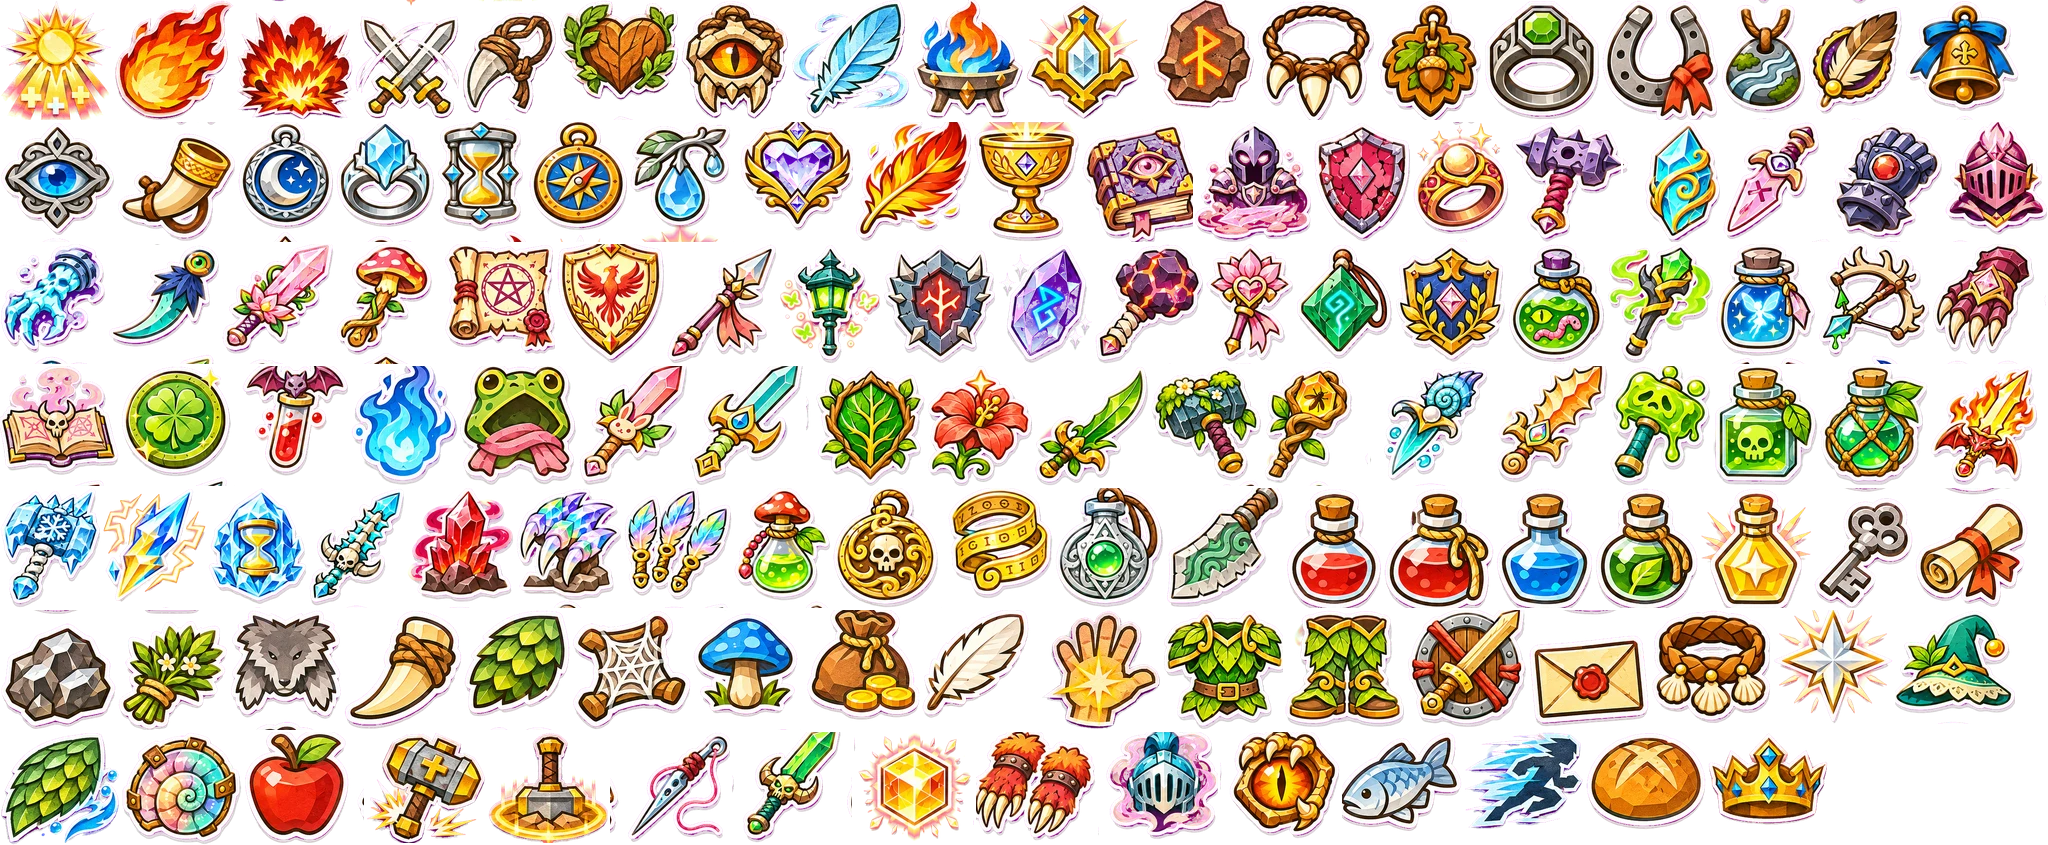
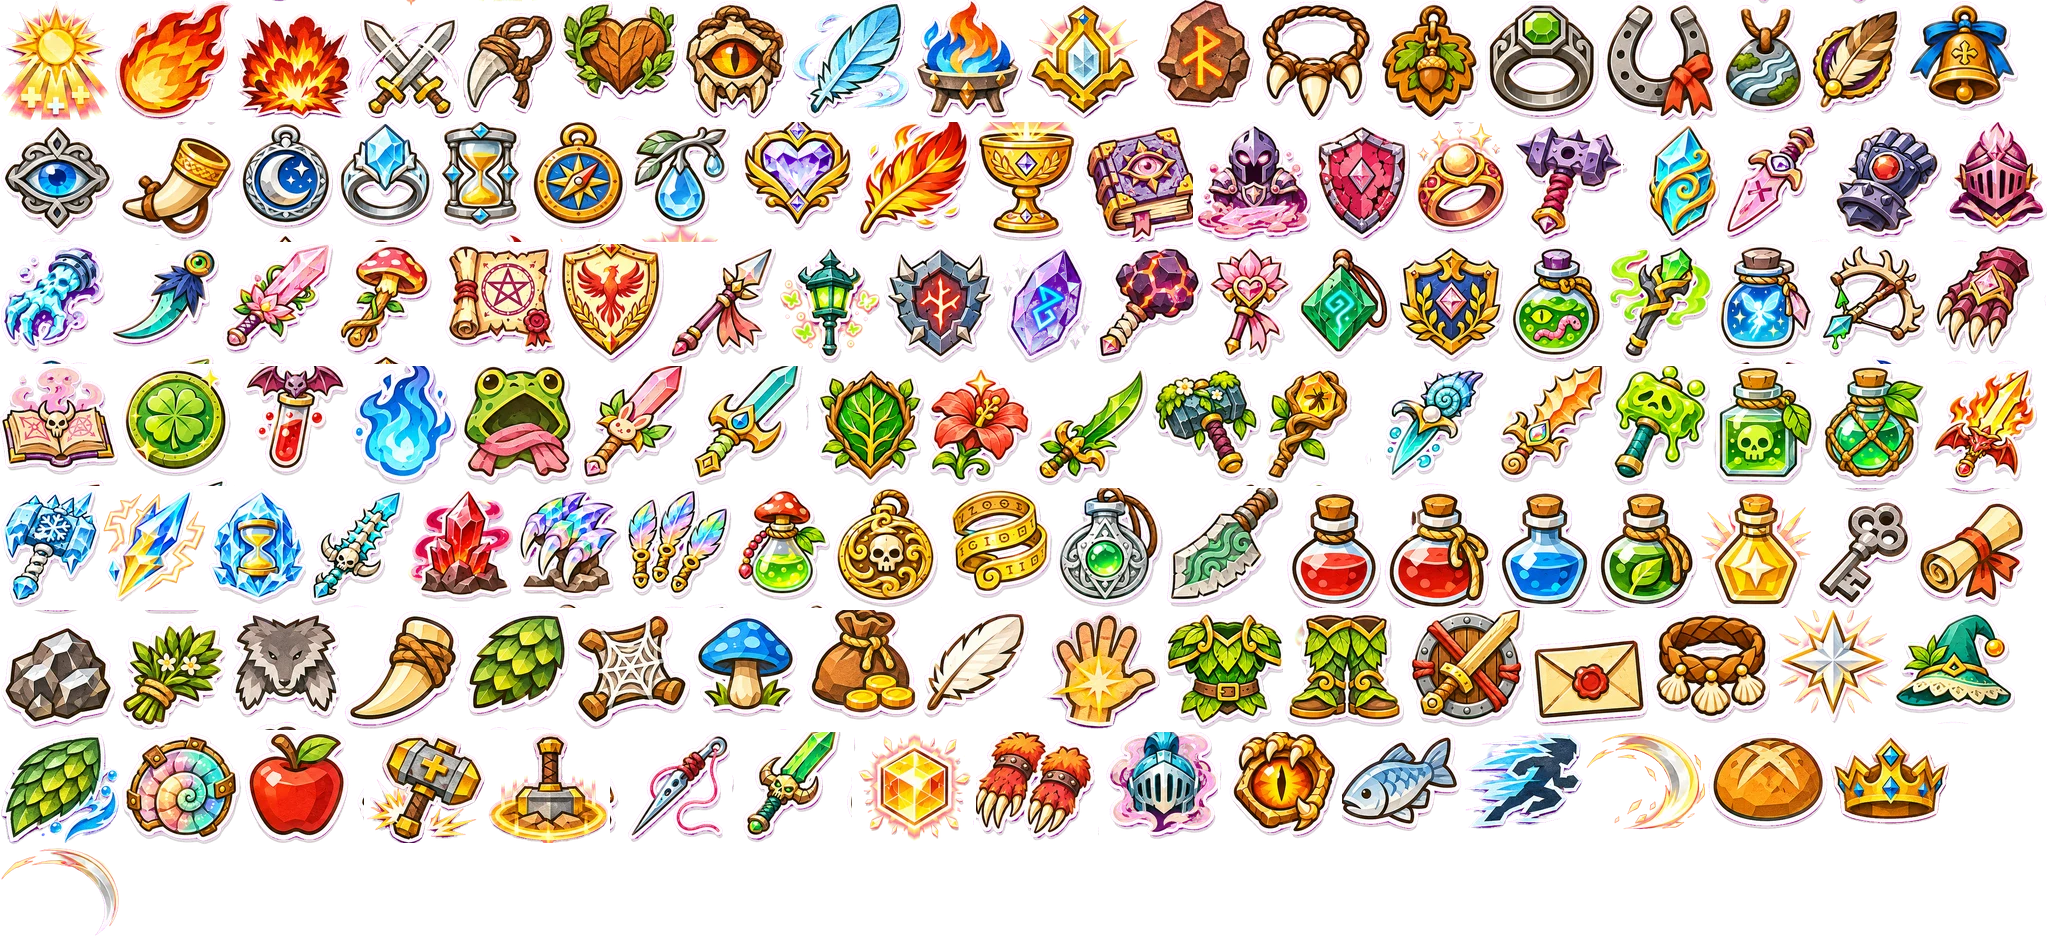
Jogo 2D: Lâmina Solar (5ª heroína) e menu do mapa com o kit de madeira e nuvens
- Lâmina Solar: elfa sangrenta com montante; golpe pesado em arco e Juízo Solar (onda de luz
  em linha reta que atravessa os inimigos), com os efeitos e ícones do dono.
- Menu do mapa no estilo da referência: placa de madeira, pergaminho em tom sépia, nuvens do kit
  sobre as regiões não descobertas, pinos (você, descoberta, DG, vila), fita com o nome,
  etiqueta de cadeado, luneta, livros e folhas de decoração.
- Arte nova já recortada no pacote (mobs, chefes, objetos dos biomas, tilesets e mapa em
  pergaminho), ainda não usada nas regiões.

Claude-Session: https://claude.ai/code/session_01WFSuYRQCc647QaKtbfHP6J

diff --git a/papel/jogo/index.html b/papel/jogo/index.html
@@ -264,7 +264,7 @@ main{display:grid;grid-template-columns:280px minmax(0,1fr) 290px;gap:8px;paddin
 .tver{position:absolute;bottom:10px;color:#fff;font-size:12px;text-shadow:0 1px 2px #000}
 .hshead{position:relative;width:100%;display:flex;align-items:center;justify-content:space-between;padding:8px 14px;box-sizing:border-box}.hshead b{font:900 24px Cinzel,Georgia,serif;color:#fff;text-shadow:2px 2px 0 #3a2a1e}
 .hshead button{min-height:38px;padding:0 14px;border:0;border-radius:4px;background:#fff3d6;font:800 14px Archivo;box-shadow:2px 3px 0 #0006}.hshead span{width:80px}
-.hsgrid{position:relative;flex:1;width:100%;display:grid;grid-template-columns:repeat(4,1fr);gap:10px;padding:0 12px 12px;box-sizing:border-box;min-height:0}
+.hsgrid{position:relative;flex:1;width:100%;display:grid;grid-template-columns:repeat(5,1fr);gap:10px;padding:0 12px 12px;box-sizing:border-box;min-height:0}
 .hcard{background:#fff3d6f0;border-radius:6px;box-shadow:4px 6px 0 #0006;outline:2px dashed #c9a06a;outline-offset:-7px;display:flex;flex-direction:column;align-items:center;padding:8px 8px 10px;gap:3px;overflow:auto;min-height:0}
 .hcard canvas{height:clamp(70px,30vh,170px);width:auto;flex:none}.hcard b{font:900 15px Cinzel,Georgia,serif;color:#7a3a1e;text-align:center}.hcard small{font-size:10.5px;text-align:center;opacity:.85;line-height:1.2}
 .hsk{display:flex;align-items:center;gap:4px;font:800 11px Archivo;color:#2f7a72}.hsk .uic{width:24px;height:24px}
@@ -291,6 +291,19 @@ main{display:grid;grid-template-columns:280px minmax(0,1fr) 290px;gap:8px;paddin
 .wrib{background:#fff3d6;color:#5a3a1e;font:800 10px Cinzel,Georgia,serif;padding:2px 8px;border:2px solid #c9a06a;border-radius:3px;box-shadow:2px 2px 0 #0005;white-space:nowrap;clip-path:polygon(0 0,100% 0,95% 50%,100% 100%,0 100%,5% 50%)}
 .wn.here .wrib{background:#e8b33a}.wn.dg .wrib{border-color:#b03a2e}.wn.vila .wrib{border-color:#2f6fd0}
 .wn small{background:#b03a2ee0;color:#fff;border-radius:3px;padding:0 4px;font:800 8.5px Archivo}
+#shop.wfull{padding:0;background:radial-gradient(ellipse at center,#7a4f2e,#3d2716 75%)}
+.wmenu{position:relative;width:100%;height:100%;display:flex;align-items:center;justify-content:center}
+.wpaper{position:relative;height:calc(100% - 64px);aspect-ratio:16/9;max-width:calc(100% - 120px);margin-top:44px;border-radius:6px;box-shadow:0 10px 0 #0005,0 0 0 6px #5a3a1e,0 0 0 9px #c99a4a;overflow:hidden}
+.wpaper .wmap{height:100%;border-radius:0;background:url(art/continente.webp) center/100% 100%;filter:sepia(.85) saturate(.75) contrast(.95) brightness(1.05)}
+.wpaper .wmap::before{display:none}
+.wtitle{position:absolute;top:2px;left:50%;transform:translateX(-50%);width:220px;height:62px;z-index:3;display:flex;align-items:center;justify-content:center}.wtitle .uic{position:absolute;inset:0;width:100%;height:100%}.wtitle b{position:relative;margin-top:16px;font:900 18px Cinzel,Georgia,serif;color:#fff3d6;text-shadow:0 2px 0 #3a2a1e}
+.wbtn{position:absolute;z-index:3;border:0;background:none;padding:0}.wbtn .uic{width:52px;height:52px}.wback{left:10px;bottom:10px}.whelp{right:10px;top:8px}.wreg{left:10px;top:8px;display:flex;flex-direction:column;align-items:center}.wreg .uic{width:46px;height:46px}.wreg b{font:800 11px Archivo;color:#fff3d6;margin-top:-6px}
+.wrosa{position:absolute;right:2%;top:3%;width:11%;opacity:.85}.wrosa .uic{width:100%;height:auto}
+.wdeco{position:absolute;z-index:2;pointer-events:none}.wluneta{right:-6px;bottom:-4px}.wluneta .uic{width:110px;height:110px}.wfolha{right:0;top:60px}.wfolha .uic{width:70px;height:70px}.wlivros{left:-10px;top:70px}.wlivros .uic{width:70px;height:70px}
+.wcloud{width:19%!important;height:auto!important}.wcloud .uic{width:100%;height:auto;filter:drop-shadow(0 4px 0 #0004)}
+.wpin .uic{width:26px;height:30px}.wpin{filter:none!important}
+.wlock{position:absolute;z-index:4;transform:translate(-50%,-50%);display:none;align-items:center;width:200px;height:40px}.wlock.on{display:flex}.wlock .uic{position:absolute;inset:0;width:100%;height:100%}.wlock span{position:relative;margin-left:44px;font:700 12px Archivo;color:#fff}
+.wn.v{z-index:2}.wcloud{z-index:1}.wpin .uic{width:30px;height:34px}.wtitle{width:280px!important;height:86px!important;top:-6px!important}.wtitle b{margin-top:30px!important;font-size:19px!important}.wlivros{top:150px!important}
 #app{display:none!important}html,body{background:#1d2a14}
 </style>
 </head>
@@ -615,7 +628,7 @@ const ALIAS={guarda:'ulric',mercador:'bento',cogumelo:'cogumelos'};
 const ESTAT={slime:[2,1.4,1],lobo:[3,2.4,1],lobo_preto:[4,2.6,1],lobo_branco:[5,2.7,1],javali:[5,2.1,1],aranha:[3,1.9,1],rato_mineiro:[3,1.7,1],golem:[10,.9,2],sapo_guerreiro:[3,1.9,1],sapo_pescador:[3,1.7,1],sapo_xama:[3,1.4,1],sapo_chefe:[10,1.5,2]};
 const CRIT={coelho:{side:3,back:6,R:1},esquilo:{side:1,back:2},sapinho:{side:1,back:2},patinho:{side:1,back:2,R:1},caranguejo:{side:1,back:2},passarinho:{side:1,back:2,fly:[4,5]},gaivota:{side:1,back:0,fly:[3,4,5]},borb_azul:{flap:1},borb_amarela:{flap:1},borb_rosa:{flap:1},vagalume:{flap:1,glow:1}};
 const HS=.78;
-const HEROES=[['paladino','Paladino'],['sacerdotisa','Sacerdotisa do Sol'],['maga','Maga do Fogo'],['duelista','Duelista']];
+const HEROES=[['paladino','Paladino'],['sacerdotisa','Sacerdotisa do Sol'],['maga','Maga do Fogo'],['duelista','Duelista'],['lamina','Lâmina Solar']];
 function applyArt(){const S=ART.cat.sprites;
  const make=(k,art,o)=>{const sp=S[art];if(!sp)return;const f=sp.f[o.face||0],s=o.s||1;let sw=f[3]/sp.ppt*s,sh=f[4]/sp.ppt*s;if(o.fitW){sh*=o.fitW/sw;sw=o.fitW}
   const life=o.npc||o.enemy||o.critter;const fw=o.fw||(life?1:Math.max(1,Math.round(sw*(o.L==='build'?.85:.7))));const fh=o.fh||(o.L==='build'?2:1);
@@ -1211,7 +1224,7 @@ const SAVEK0='dallarian-papel-save';const saveKey=hi=>'dallarian-heroi-'+HEROES[
 function saveProg(){if(!play.h||!play.m)return;try{localStorage.setItem(saveKey(play.hi),JSON.stringify({t:Date.now(),pos:{m:play.m.id,x:Math.floor(play.h.x),y:Math.floor(play.h.y-.1)},cp:play.cp,items:play.items,opened:[...(play.opened||[])],gold:play.gold,pots:play.pots,arts:play.arts,eq:play.eq,loot:play.loot||{},hi:play.hi||0,q:play.q,lit:[...(play.lit||[])],vis:play.visited||[]}))}catch(e){}}
 function readSave(hi){try{let d=JSON.parse(localStorage.getItem(saveKey(hi)));if(!d){const o=JSON.parse(localStorage.getItem(SAVEK0));if(o&&(o.hi||0)===hi){d=o}}return d}catch(e){return null}}
 function loadProg(){const d=readSave(play.hi||0);play.savePos=null;if(d){play.savePos=d.pos||null;play.cp=d.cp||null;play.items=d.items||[];play.opened=new Set(d.opened||[])}if(d){play.gold=d.gold||0;play.loot=d.loot||{};play.pots=d.pots??1;play.arts=d.arts||{};play.eq=(d.eq||[]).filter(id=>ARTS[id]&&play.arts[id]);if(d.hi!=null)play.hi=d.hi;play.q=d.q||{};play.lit=new Set(d.lit||[]);play.visited=d.vis||[]}else{play.q={}}applyStats()}
-const HDESC={paladino:['Guerreiro de armadura e martelo de guerra. Aguenta pancada e esmaga tudo em volta.','Martelo Sagrado'],sacerdotisa:['Curandeira da Luz. Bate de perto e cura os próprios corações.','Luz do Sol'],maga:['Ataca de longe com bolas de fogo. Frágil, mas muito forte.','Explosão de Fogo'],duelista:['Rápido e certeiro: corte duplo e investida que atravessa os inimigos.','Investida']};
+const HDESC={paladino:['Guerreiro de armadura e martelo de guerra. Aguenta pancada e esmaga tudo em volta.','Martelo Sagrado'],sacerdotisa:['Curandeira da Luz. Bate de perto e cura os próprios corações.','Luz do Sol'],maga:['Ataca de longe com bolas de fogo. Frágil, mas muito forte.','Explosão de Fogo'],duelista:['Rápido e certeiro: corte duplo e investida que atravessa os inimigos.','Investida'],lamina:['Elfa sangrenta com montante de duas mãos. Golpes pesados e uma onda de luz sagrada.','Juízo Solar']};
 function lastSave(){let best=null;HEROES.forEach((h,i)=>{const d=readSave(i);if(d&&(!best||(d.t||0)>(best.t||0)))best=Object.assign({i},d)});return best}
 function openMenu(){play.dlg=6;const el=$('shop');
  el.innerHTML=`<div class="shead"><div><b>☰ Menu</b><span>${esc(HEROES[play.hi||0][1])} · ${esc(play.m.name)}</span></div><button id="shopX">Voltar ao jogo</button></div><div class="slist mnu"><button class="tbtn" id="mSave">Salvar agora</button><button class="tbtn main" id="mTitle">Salvar e voltar ao menu principal</button><small>O progresso também é salvo sozinho a cada 12 segundos.</small></div>`;
@@ -1334,14 +1347,18 @@ function openBag(sel,tab){if(!play.on)return;play.dlg=3;tab=tab||play.bagTab||'a
 const BOSSN={arena_golem:'Golem',planalto:'Lobo Rei',aldeia_lodosa:'Grão-Lodoso',toca:'Aranha Rainha',moinho_velho:'Javali Ancestral'};
 function homeOf(id){if(GRID[id])return id;const m=world.maps[id];if(!m)return null;const t=m.o.find(o=>TY[o.k]&&TY[o.k].tr&&o.dest&&GRID[o.dest]);return t?t.dest:null}
 function openWorld(){if(!play.on)return;play.dlg=4;const el=$('shop'),here=homeOf(play.m.id),vis=new Set(play.visited||[]);vis.add(play.m.id);
- const pos=id=>({x:(GRID[id][0]+.5)*20,y:(GRID[id][1]+.5)*20});
+ const pos=id=>({x:4+(GRID[id][0]+.5)*18.4,y:4+(GRID[id][1]+.5)*18.4});
  const lines=EDGES.map(([a,b])=>{const A=pos(a),B=pos(b),k=vis.has(a)&&vis.has(b);return`<line x1="${A.x}" y1="${A.y}" x2="${B.x}" y2="${B.y}" class="${k?'ok':''}"/>`}).join('');
  const nodes=Object.keys(GRID).filter(id=>world.maps[id]).map(id=>{const P=pos(id),mm=world.maps[id],v=vis.has(id),cur=id===here,vila=mm.vila;
-  if(!v)return`<div class="wcloud" data-w="${id}" style="left:${P.x}%;top:${P.y}%"><i></i><i></i><i></i></div>`;
-  return`<button class="wn v${cur?' here':''}${vila?' vila':''}${DGN[id]?' dg':''}" data-w="${id}" style="left:${P.x}%;top:${P.y}%"><span class="wpin">${cur?'📍':DGN[id]?'☠':vila?'🏠':'✔'}</span><span class="wrib">${esc(mm.name)}</span>${BOSSN[id]?`<small>${esc(BOSSN[id])}</small>`:''}</button>`}).join('');
- el.innerHTML=`<div class="shead"><div><b>🗺 Continente de Dallarian</b><span>Toque numa região descoberta para viajar até a estátua dela. As nuvens somem quando você chega andando.</span></div><button id="wReg">Mapa da região</button><button id="shopX">Fechar</button></div><div class="slist wbox"><div class="wmap"><svg viewBox="0 0 100 100" preserveAspectRatio="none">${lines}</svg>${nodes}</div></div>`;
- el.style.display='flex';$('shopX').onclick=e=>{e.stopPropagation();closeShop()};$('wReg').onclick=e=>{e.stopPropagation();closeShop();openMap()};
- el.querySelectorAll('.wcloud').forEach(b=>b.onclick=e=>{e.stopPropagation();toast('🔒 Região coberta pelas nuvens: chegue andando pela primeira vez')});
+  if(!v)return`<div class="wcloud" data-w="${id}" style="left:${P.x}%;top:${P.y}%">${icSvg(['mk_nuvem1','mk_nuvem2','mk_nuvens3'][Math.floor(hsh(GRID[id][0],GRID[id][1],5)*3)],'ui')}</div>`;
+  return`<button class="wn v${cur?' here':''}${vila?' vila':''}${DGN[id]?' dg':''}" data-w="${id}" style="left:${P.x}%;top:${P.y}%"><span class="wpin">${icSvg(cur?'mk_pino_aqui':DGN[id]?'mk_pino_chefe':vila?'mk_pino_vila':'mk_pino_ok','ui')}</span><span class="wrib">${esc(mm.name)}</span></button>`}).join('');
+ const U=k=>icSvg(k,'ui');
+ el.innerHTML=`<div class="wmenu"><div class="wtitle">${U('mk_placa')}<b>Continente</b></div><button class="wbtn wback" id="shopX">${U('mk_voltar')}</button><button class="wbtn whelp" id="wHelp">${U('mk_ajuda')}</button><button class="wbtn wreg" id="wReg">${U('mk_pergaminho')}<b>Região</b></button>
+ <div class="wpaper"><div class="wmap"><svg viewBox="0 0 100 100" preserveAspectRatio="none">${lines}</svg>${nodes}</div><i class="wrosa">${U('mk_rosa')}</i><div class="wlock" id="wLock">${U('mk_cadeado')}<span></span></div></div>
+ <i class="wdeco wluneta">${U('mk_luneta')}</i><i class="wdeco wfolha">${U('mk_folhas')}</i><i class="wdeco wlivros">${U('mk_livros')}</i></div>`;
+ $('wHelp').onclick=e=>{e.stopPropagation();say('Mapa','Nuvens = regiões que você ainda não descobriu.|Pino vermelho = você. Verde = descoberta. Roxo = DG com chefe. Azul = vila.|Toque duas vezes numa região descoberta para viajar até a estátua dela.');closeShop()};
+ el.style.display='flex';el.classList.add('wfull');$('shopX').onclick=e=>{e.stopPropagation();closeShop()};$('wReg').onclick=e=>{e.stopPropagation();closeShop();openMap()};
+ el.querySelectorAll('.wcloud').forEach(b=>b.onclick=e=>{e.stopPropagation();const L=$('wLock');L.querySelector('span').textContent='Descubra andando até lá';L.style.left=b.style.left;L.style.top=b.style.top;L.classList.add('on');clearTimeout(L._t);L._t=setTimeout(()=>L.classList.remove('on'),1800)});
  el.querySelectorAll('.wn').forEach(b=>b.onclick=e=>{e.stopPropagation();const id=b.dataset.w;if(id===play.m.id){closeShop();return}
   if(b.dataset.ok){travel(id)}else{el.querySelectorAll('.wn[data-ok]').forEach(q=>{delete q.dataset.ok;q.classList.remove('conf')});b.dataset.ok=1;b.classList.add('conf');toast('Toque de novo em '+world.maps[id].name+' para viajar')}})}
 function travel(id){const m=world.maps[id];closeShop();const st=m.o.find(o=>TY[o.k]&&TY[o.k].statue),ini=m.o.find(o=>o.k==='inicio');const at=st?[st.x,st.y+2]:ini?[ini.x,ini.y]:null;
@@ -1363,7 +1380,7 @@ function openShop(o){const S=SHOPS[o.loja];if(!S)return;if(S.art){openArtShop(o)
   play.gold-=it.p;it.go();items();saveProg();toast('Comprou: '+it.n);openShop(o)})}
 function sellHTML(){const L=Object.entries(play.loot||{}).filter(([k,n])=>n>0&&LOOT[k]);if(!L.length)return'<h4>Vender</h4><small>Nada para vender. Monstros soltam itens (peles, presas, escamas…).</small>';const tot=L.reduce((a,[k,n])=>a+LOOT[k][1]*n,0);return`<h4>Vender itens</h4>${L.map(([k,n])=>`<button class="sit" data-sell="${k}"><span class="sic">${icSvg(k)}</span><span class="stx"><b>${esc(LOOT[k][0])} ×${n}</b><small>${LOOT[k][1]} ouro cada</small></span><span class="spr">Vender 1</span></button>`).join('')}<button class="tbtn main" data-sellall="1" style="margin:6px auto">Vender tudo (${tot} ouro)</button>`}
 function bindSell(el,again){el.querySelectorAll('[data-sell]').forEach(b=>b.onclick=e=>{e.stopPropagation();const k=b.dataset.sell;if(!(play.loot[k]>0))return;play.loot[k]--;play.gold+=LOOT[k][1];items();saveProg();again()});const all=el.querySelector('[data-sellall]');if(all)all.onclick=e=>{e.stopPropagation();let g=0;for(const k in play.loot){g+=(LOOT[k]?LOOT[k][1]:0)*play.loot[k]}play.loot={};play.gold+=g;items();saveProg();toast('Vendeu tudo: +'+g+' ouro');again()}}
-function closeShop(){$('shop').style.display='none';$('shop').classList.remove('profile');play.dlg=null;play.shop=null;saveProg()}
+function closeShop(){$('shop').style.display='none';$('shop').classList.remove('profile','wfull');play.dlg=null;play.shop=null;saveProg()}
 const ARTSHOP=LOJA_INI;
 function openArtShop(o){play.dlg=2;play.shop=o;const el=$('shop');const price=id=>25+ARTS[id].il*4;
  const row=(id)=>{const a=ARTS[id],lv=play.arts[id]||0;let lab,act,cost;if(!lv){cost=price(id);lab=cost+' ouro';act='buy'}else if(lv<MAXLV){cost=upCost(id,lv);lab=`Nv ${lv}→${lv+1}: ${cost} ouro`;act='up'}else{lab='Nível máximo';act=''}
@@ -1446,15 +1463,17 @@ function hurtHero(d,fx,fy){const h=play.h;if(h.inv>0)return;if(play.S&&play.S.de
 function attack(){const h=play.h,k=heroKey(),fx=h.fx,fy=h.fy,ax=h.x+fx*.7,ay=h.y-.35+fy*.7,an=Math.atan2(fy,fx);h.atk=.3;
  if(k==='maga'){play.pr.push({x:h.x+fx*.4,y:h.y-.5+fy*.4,vx:fx*9,vy:fy*9,r:.18,d:1,life:.7,c:'#ff8a2a',big:0});burst(h.x+fx*.4,h.y-.5,'#ffb347',5,1)}
  else if(k==='sacerdotisa'){sfx('sac_golpe',ax,ay,1.3,.3)||slash(ax,ay,an,'#fff0a0',.75);hitArea(ax,ay,.55,1);burst(ax,ay,'#ffe46a',6,1.5)}
+ else if(k==='lamina'){sfx('lam_golpe',h.x+fx*.9,h.y-.4+fy*.9,2.2,.34,an)||slash(ax,ay,an,'#fff0b0',1.1);hitArea(h.x+fx*.85,h.y-.35+fy*.85,.95,3,12);burst(ax,ay,'#ffe46a',6,1.4)}
  else if(k==='duelista'){sfx('corte_x',ax,ay,1.4,.32)||slash(ax,ay,an-.4,'#ffffff',.8);setTimeout(()=>{if(play.on)hitArea(ax,ay,.6,1)},110);hitArea(ax,ay,.6,1)}
  else{sfx('pal_golpe',ax,ay,1.6,.3,an)||slash(ax,ay,an,'#ffe08a',1.0);hitArea(ax,ay,.7,2,9);burst(ax,ay,'#ffd75a',5,1)}}
 function skill(){const h=play.h,k=heroKey();if(h.cd>0)return;const fx=h.fx,fy=h.fy;h.atk=.45;
  if(k==='paladino'){h.cd=4;sfx('pal_skill',h.x,h.y,4.6,.65,0,{low:1})||ring(h.x,h.y-.3,2.4,'#ffd75a',.5);burst(h.x,h.y-.3,'#ffd75a',22,4);hitArea(h.x,h.y-.3,2.2,3,10)}
  else if(k==='sacerdotisa'){h.cd=6;h.hp=Math.min(play.maxhp,h.hp+2);hearts();num(h.x,h.y-1.5,'+2','#7dff8a');if(!sfx('sac_skill',h.x,h.y+.1,3.6,.9,0,{low:1})){for(let i=0;i<12;i++){const a=i/12*P2;play.fx.push({k:'ray',x:h.x,y:h.y-.5,a,t:.6,T:.6,c:'#ffe46a'})}ring(h.x,h.y-.4,2.6,'#fff2a0',.6)}hitArea(h.x,h.y-.4,2.5,2,6)}
  else if(k==='maga'){h.cd=3;play.pr.push({x:h.x+fx*.5,y:h.y-.5+fy*.5,vx:fx*7,vy:fy*7,r:.35,d:3,life:1,c:'#ff5a1a',big:1})}
+ else if(k==='lamina'){h.cd=4;const an2=Math.atan2(fy,fx);sfx('lam_skill',h.x+fx*2.4,h.y-.4+fy*2.4,5.2,.55,an2);play.en.forEach(a=>{if(a.hp<=0)return;const dx=a.x-h.x,dy=a.y-.3-(h.y-.4),t=dx*fx+dy*fy,d=Math.abs(dx*fy-dy*fx);if(t>-.3&&t<5.2&&d<1)hurtEnemy(a,4,h.x,h.y,12)});play.en=play.en.filter(a=>a.hp>0);ring(h.x+fx*.6,h.y-.4+fy*.6,1,'#ffe46a',.4)}
  else{h.cd=3;h.dash=.22;h.dx=fx;h.dy=fy;h.inv=Math.max(h.inv,.35);sfx('investida',h.x+fx*1.2,h.y-.4+fy*1.2,2.8,.4,Math.atan2(fy,fx))}
  refreshB()}
-function refreshB(){const cd=play.h.cd;if(cd>0&&(!play.cdMax||cd>play.cdMax))play.cdMax=cd;if(cd<=0)play.cdMax=0;$('btnB').style.setProperty('--cd',cd>0?cd/play.cdMax:0);$('btnB').classList.toggle('cd',cd>0);$('btnB').querySelector('small').textContent=play.h.cd>0?Math.ceil(play.h.cd)+'s':{paladino:'Martelo',sacerdotisa:'Luz',maga:'Fogo',duelista:'Investida'}[heroKey()]}
+function refreshB(){const cd=play.h.cd;if(cd>0&&(!play.cdMax||cd>play.cdMax))play.cdMax=cd;if(cd<=0)play.cdMax=0;$('btnB').style.setProperty('--cd',cd>0?cd/play.cdMax:0);$('btnB').classList.toggle('cd',cd>0);$('btnB').querySelector('small').textContent=play.h.cd>0?Math.ceil(play.h.cd)+'s':{paladino:'Martelo',sacerdotisa:'Luz',maga:'Fogo',duelista:'Investida',lamina:'Juízo'}[heroKey()]}
 function actionA(){if(!play.on)return;if(play.shop||play.dlg>=3){closeShop();return}if(play.dlg){closeDlg();return}if(play.fading)return;const h=play.h,m=play.m;
  const nn=play.npcs.map(n=>({n,d:Math.hypot(n.x-h.x,n.y-h.y)})).sort((a,b)=>a.d-b.d)[0];
  if(nn&&nn.d<1.5){qEvent('talk',nn.n.o.name);if(qTalk(nn.n.o))return;if(nn.n.o.loja&&SHOPS[nn.n.o.loja]){if(play.shopTalk!==nn.n.o){play.shopTalk=nn.n.o;say(nn.n.o.name,falaDe(nn.n.o));play.pendingShop=nn.n.o;return}}say(nn.n.o.name,falaDe(nn.n.o));nn.n.bt=0;return}
